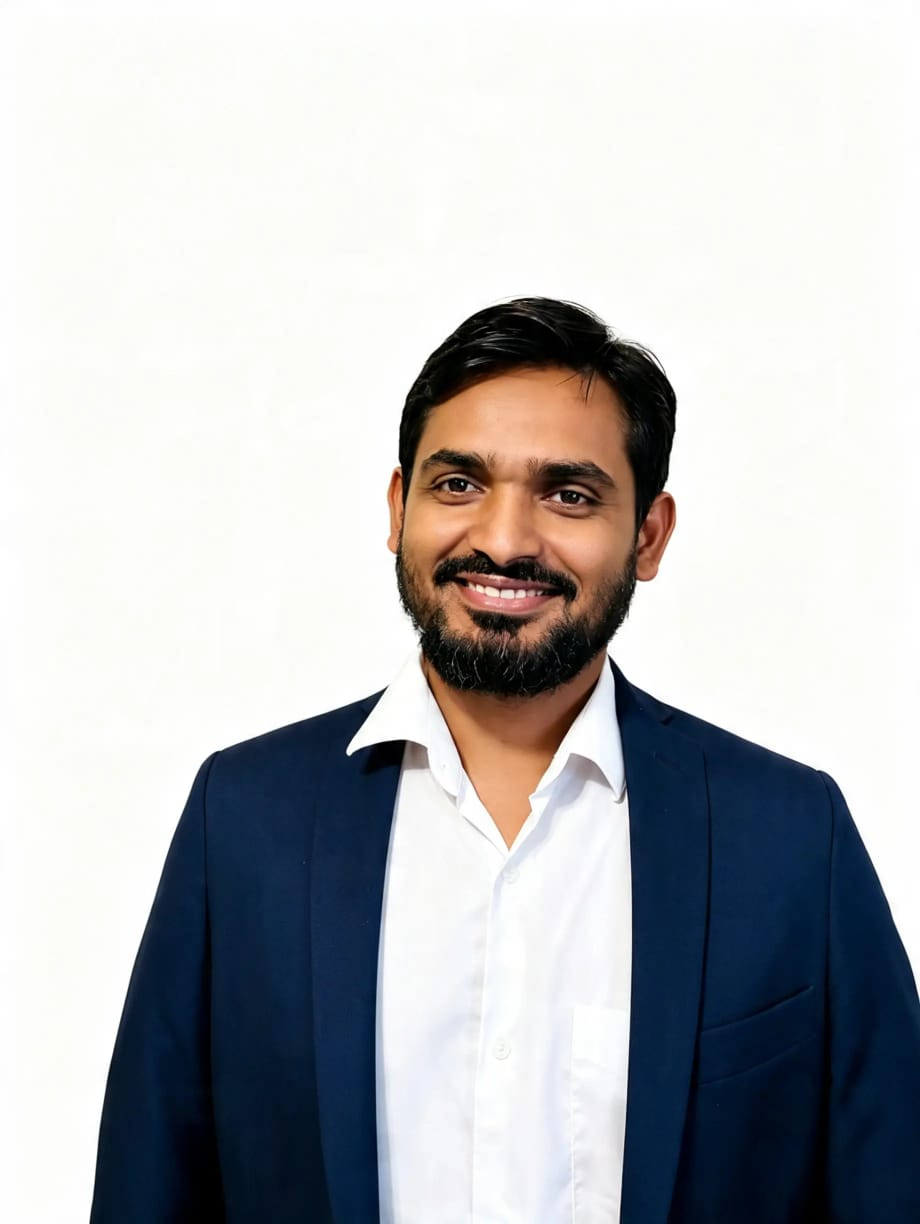
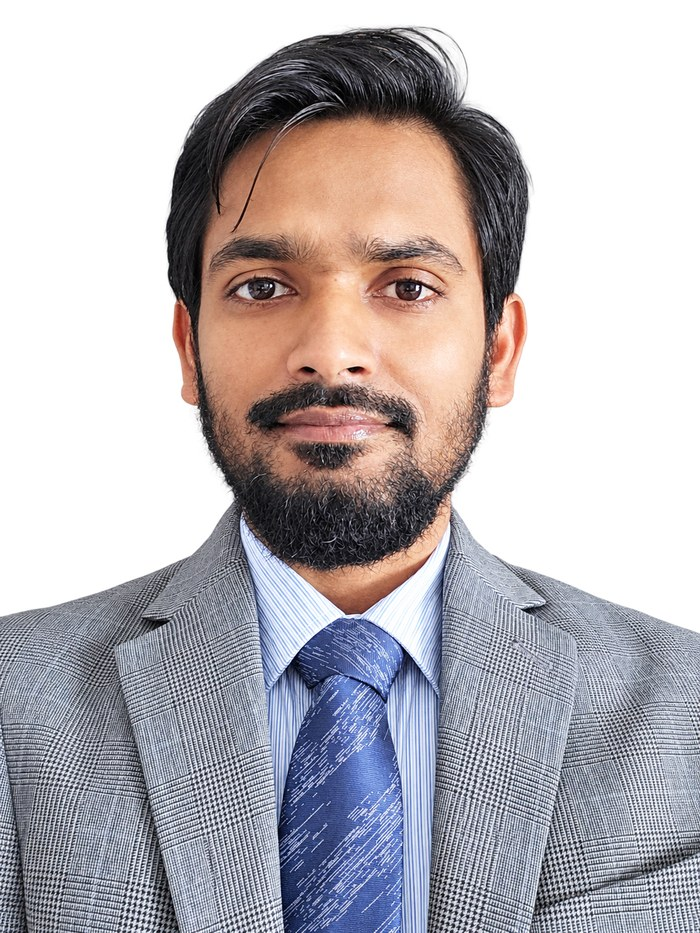
Home cover: short navy band with overlapping photo, new headshot
Shrink the navy hero to a band holding eyebrow, headline and byline, let the
photo overlap its bottom edge, and move the intro, buttons and social icons
onto the white page below.

Claude-Session: https://claude.ai/code/session_01RiyW352G6RGgz697F1WQym

diff --git a/style.css b/style.css
@@ -1004,10 +1004,10 @@ header.site-header { background: var(--navy); }
 }
 
 /* ===== Home page: split hero (B) ===== */
-.hb-hero{margin:0;background:var(--navy);color:#f4f1ea;position:relative;overflow:hidden}
+.hb-hero{margin:0;background:var(--navy);color:#f4f1ea;position:relative}
 .hb-hero::before{content:"";position:absolute;inset:0;background:radial-gradient(circle at 30% 55%,#1b2840 0,#1b2840 1px,transparent 1px),none;pointer-events:none}
-.hb-hero-inner{max-width:1120px;margin:0 auto;display:flex;align-items:stretch}
-.hb-hero-text{flex:1 1 56%;min-width:0;padding:72px 48px 72px 32px;display:flex;flex-direction:column;justify-content:center;gap:20px}
+.hb-hero-inner{max-width:1120px;margin:0 auto;display:flex;align-items:flex-end;justify-content:space-between;gap:40px}
+.hb-hero-text{flex:1 1 auto;min-width:0;padding:44px 0 44px 32px;display:flex;flex-direction:column;justify-content:center;gap:14px}
 .hb-eyebrow{margin:0;font:600 13px/1 Inter,sans-serif;letter-spacing:.22em;text-transform:uppercase;color:var(--gold)}
 .hb-hero h1{margin:0;max-width:600px;font-family:"Source Serif 4",Georgia,serif;font-weight:600;font-size:clamp(34px,4.4vw,52px);line-height:1.1;letter-spacing:-.015em;color:#fff}
 .hb-sub{margin:0;max-width:540px;font:400 19px/1.55 "Source Serif 4",Georgia,serif;color:#e6e1d3}
@@ -1029,8 +1029,8 @@ header.site-header { background: var(--navy); }
 .hb-badge{width:36px;height:36px;border-radius:50%;background:#fff;display:flex;align-items:center;justify-content:center;flex:none}
 .hb-badge img{width:20px;height:20px;object-fit:contain;display:block}
 .hb-badge svg{width:20px;height:20px;fill:var(--navy);display:block}
-.hb-hero-photo{flex:1 1 44%;min-width:0;min-height:480px;position:relative}
-.hb-hero-photo img{position:absolute;inset:0;width:100%;height:100%;object-fit:cover;object-position:50% 58%;background:#f3f1ec}
+.hb-hero-photo{flex:0 0 220px;width:220px;min-width:0;margin:44px 32px -96px 0;position:relative;z-index:2}
+.hb-hero-photo img{display:block;width:100%;height:auto;aspect-ratio:4/5;object-fit:cover;object-position:50% 25%;border-radius:14px;border:3px solid var(--gold);background:#f3f1ec;box-shadow:0 12px 30px rgba(19,28,43,.25)}
 .hb-main{max-width:1056px;margin:0 auto;padding:0 32px 56px}
 .hb-strip{position:relative;z-index:2;margin-top:-52px;background:#fff;border:1px solid #e8e3d9;border-radius:14px;box-shadow:0 10px 30px rgba(19,28,43,.10);display:grid;grid-template-columns:repeat(4,minmax(0,1fr))}
 .hb-strip>div{padding:22px 26px;display:flex;flex-direction:column;gap:4px;border-right:1px solid #efebe4;font-size:14px;color:#4a4a4a;line-height:1.4}
@@ -1069,9 +1069,10 @@ header.site-header { background: var(--navy); }
   .hb-step:nth-child(5){grid-column:1/-1}
 }
 @media (max-width:900px){
-  .hb-hero-inner{flex-direction:column-reverse}
-  .hb-hero-text{padding:40px 24px 48px}
-  .hb-hero-photo{min-height:340px;flex:none}
+  .hb-hero-inner{flex-direction:column-reverse;align-items:flex-start;gap:0}
+  .hb-hero-text{padding:32px 24px}
+  .hb-hero-photo{flex:none;width:200px;margin:32px 24px -80px}
+  .hb-intro-in{padding-top:100px}
   .hb-strip{grid-template-columns:repeat(2,minmax(0,1fr))}
   .hb-strip>div:nth-child(2){border-right:0}
   .hb-strip>div:nth-child(-n+2){border-bottom:1px solid #efebe4}
@@ -1306,3 +1307,19 @@ html{scroll-behavior:smooth}
 .tc-inst h3 span{font:400 13.5px Inter,sans-serif;color:#6b7280;margin-left:8px}
 .tc-ex .tc-t{font:600 14.5px/1.4 Inter,sans-serif;color:var(--navy);margin:0 0 4px}
 .tc-ex .tc-m{font-size:13px;color:#6b7280;margin:0}
+
+/* ===== Home cover, option A: short navy band, photo overlaps, intro on white ===== */
+.hb-hero h1{max-width:700px;font-size:clamp(32px,4vw,46px)}
+.hb-intro{margin:0}
+.hb-intro-in{max-width:1120px;margin:0 auto;padding:36px 32px 8px;display:flex;flex-direction:column;gap:20px;box-sizing:border-box}
+.hb-intro-in>*{max-width:700px}
+.hb-intro .hb-sub{color:#2b2b2b}
+.hb-intro .hb-btn-gold{background:var(--navy);color:#fff}
+.hb-intro .hb-btn-gold:hover{background:#1e2b44;color:#fff}
+.hb-intro .hb-btn-line{border-color:var(--navy);color:var(--navy)}
+.hb-intro .hb-btn-line:hover{background:rgba(19,28,43,.06);color:var(--navy)}
+.hb-intro .hb-btn-ghost{border-color:#c9c4b8;color:#4a4a4a}
+.hb-intro .hb-btn-ghost:hover{border-color:var(--navy);color:var(--navy)}
+.hb-intro .hb-icon{border-color:rgba(19,28,43,.35)}
+.hb-intro .hb-icon:hover{border-color:var(--navy)}
+.hb-intro .hb-badge{background:#fff}

diff --git a/index.html b/index.html
@@ -35,18 +35,23 @@
     <div class="hb-hero-text">
       <p class="hb-eyebrow">Education Policy Researcher</p>
       <h1>Evidence that informs education decisions</h1>
-      <p class="hb-sub">I study how governance, leadership, and spending decisions shape fiscal and student outcomes, using rigorous empirical methods.</p>
       <p class="hb-byline">Md Juwel Ahmed Sarker &middot; Ph.D. Candidate, University of Arkansas</p>
+    </div>
+    <div class="hb-hero-photo">
+      <img src="assets/images/headshot.jpg" width="560" height="700" alt="Portrait of Md Juwel Ahmed Sarker" onerror="this.style.display='none'">
+    </div>
+  </div>
+</section>
+
+<section class="hb-intro" aria-label="About this site">
+  <div class="hb-intro-in">
+      <p class="hb-sub">I study how governance, leadership, and spending decisions shape fiscal and student outcomes, using rigorous empirical methods.</p>
       <div class="hb-cta">
         <a class="hb-btn hb-btn-gold" href="research.html">Read my job market paper</a>
         <a class="hb-btn hb-btn-line" href="about.html">About me</a>
         <a class="hb-btn hb-btn-ghost" href="assets/files/Sarker_CV.pdf">CV (PDF)</a>
       </div>
       <div class="hb-icons"><a class="hb-icon" href="https://orcid.org/0000-0002-8742-0758" aria-label="ORCID" title="ORCID"><span class="hb-badge"><img src="assets/images/icons/orcid.png" alt=""></span></a><a class="hb-icon" href="https://scholar.google.com/citations?user=LOtnBs0AAAAJ&hl=en" aria-label="Google Scholar" title="Google Scholar"><span class="hb-badge"><svg viewBox="0 0 24 24" aria-hidden="true"><path d="M5.242 13.769L0 9.5 12 0l12 9.5-5.242 4.269C17.548 11.024 14.978 9.5 12 9.5c-2.977 0-5.548 1.524-6.758 4.269zM12 10a7 7 0 1 0 0 14 7 7 0 0 0 0-14z"/></svg></span></a><a class="hb-icon" href="https://www.researchgate.net/profile/Md-Juwel-Ahmed-Sarker?ev=prf_overview" aria-label="ResearchGate" title="ResearchGate"><span class="hb-badge"><img src="assets/images/icons/researchgate.png" alt=""></span></a><a class="hb-icon" href="https://www.linkedin.com/in/md-juwel-ahmed-sarker-17180333/" aria-label="LinkedIn" title="LinkedIn"><span class="hb-badge"><svg viewBox="0 0 24 24" role="img" aria-hidden="true"><path d="M20.447 20.452h-3.554v-5.569c0-1.328-.027-3.037-1.852-3.037-1.853 0-2.136 1.445-2.136 2.939v5.667H9.351V9h3.414v1.561h.046c.477-.9 1.637-1.85 3.37-1.85 3.601 0 4.267 2.37 4.267 5.455v6.286zM5.337 7.433c-1.144 0-2.063-.926-2.063-2.065 0-1.138.92-2.063 2.063-2.063 1.14 0 2.064.925 2.064 2.063 0 1.139-.925 2.065-2.064 2.065zm1.782 13.019H3.555V9h3.564v11.452zM22.225 0H1.771C.792 0 0 .774 0 1.729v20.542C0 23.227.792 24 1.771 24h20.451C23.2 24 24 23.227 24 22.271V1.729C24 .774 23.2 0 22.222 0h.003z"/></svg></span></a><a class="hb-icon" href="https://x.com/md_juwel_sarker" aria-label="X (Twitter)" title="X (Twitter)"><span class="hb-badge"><img src="assets/images/icons/x-twitter.png" alt=""></span></a><a class="hb-icon" href="https://bsky.app/profile/juwelsarker.bsky.social" aria-label="Bluesky" title="Bluesky"><span class="hb-badge"><svg viewBox="0 0 24 24" role="img" aria-hidden="true"><path d="M12 10.8c-1.087-2.114-4.046-6.053-6.798-7.995C2.566.944 1.561 1.266.902 1.565.139 1.908 0 3.08 0 3.768c0 .69.378 5.65.624 6.479.815 2.736 3.713 3.66 6.383 3.364.136-.02.275-.039.415-.056-.138.022-.276.04-.415.056-3.912.58-7.387 2.005-2.83 7.078 5.013 5.19 6.87-1.113 7.823-4.308.953 3.195 2.05 9.271 7.733 4.308 4.267-4.308 1.172-6.498-2.74-7.078a8.741 8.741 0 0 1-.415-.056c.14.017.279.036.415.056 2.67.297 5.568-.628 6.383-3.364.246-.828.624-5.79.624-6.478 0-.69-.139-1.861-.902-2.206-.659-.298-1.664-.62-4.3 1.24C16.046 4.748 13.087 8.687 12 10.8Z"/></svg></span></a><a class="hb-icon" href="mailto:sarker@uark.edu" aria-label="Email" title="Email"><span class="hb-badge"><svg class="hb-stroke" viewBox="0 0 24 24" aria-hidden="true"><rect x="3" y="5" width="18" height="14" rx="2"/><polyline points="3.5,6.5 12,13 20.5,6.5"/></svg></span></a></div>
-    </div>
-    <div class="hb-hero-photo">
-      <img src="assets/images/headshot.jpg" width="560" height="640" alt="Portrait of Md Juwel Ahmed Sarker" onerror="this.style.display='none'">
-    </div>
   </div>
 </section>
 
